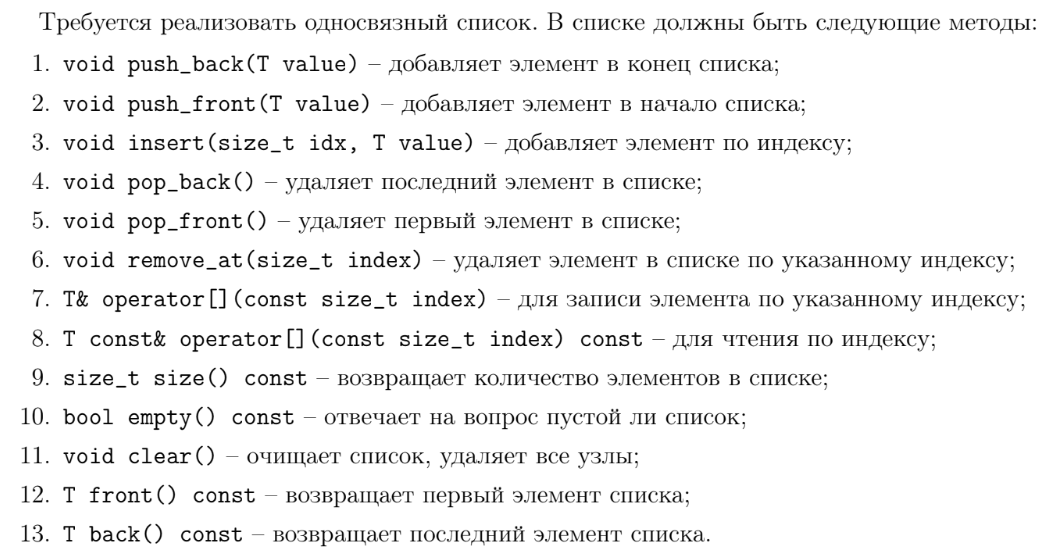
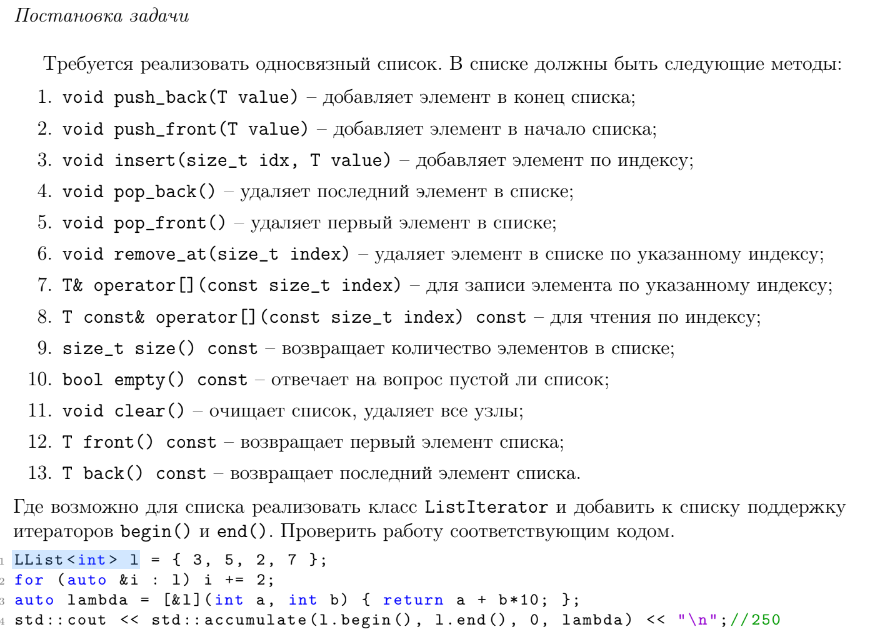
modified

diff --git a/addition_tasks/linked_list/LList.cpp b/addition_tasks/linked_list/LList.cpp
@@ -1,4 +1,6 @@
 #include <iostream>
+#include <numeric>
+#include <vector>
 #include "LList.h"
 
 using std::cout;
@@ -6,13 +8,20 @@ using std::cout;
 template<typename T>
 LList<T>::LList() {
     _size = 0;
-    auto *new_el_1 = new Node('\0');
+    auto new_el_1 = new Node<T>();
     head = new_el_1;
 
-    auto *new_el_2 = new Node('\0');
+    auto new_el_2 = new Node<T>();
     z = new_el_2;
     z->_next = z;
     head->_next = z;
+}
+
+template<typename T>
+LList<T>::LList(std::initializer_list<T> values) : LList() {
+    for (auto const &val: values) {
+        push_back(val);
+    }
 }
 
 template<typename T>
@@ -29,7 +38,7 @@ template<typename T>
 void LList<T>::push_back(T _val) {
     auto *new_element = new Node(_val);
 
-    Node *current = head;
+    Node<T> *current = head;
     while (current->_next != z) {
         current = current->_next;
     }
@@ -50,7 +59,7 @@ void LList<T>::push_front(T _val) {
 
 template<typename T>
 void LList<T>::insert(size_t index, T _val) {
-    Node *curr;
+    Node<T> *curr;
     int count;
     if (_size < index)
         throw std::out_of_range("oooooy, this is outside");
@@ -63,7 +72,7 @@ void LList<T>::insert(size_t index, T _val) {
         return;
     }
 
-    Node *previous_element = head;
+    Node<T> *previous_element = head;
     curr = head->_next;
     count = 0;
     while (count != index) {
@@ -72,7 +81,7 @@ void LList<T>::insert(size_t index, T _val) {
         curr = curr->_next;
     }
 
-    Node *new_element = new Node(_val);
+    Node<T> *new_element = new Node(_val);
     new_element->_next = curr;
     previous_element->_next = new_element;
 
@@ -92,7 +101,7 @@ void LList<T>::remove_at(size_t index) {
             return;
         }
 
-        Node *curr = head->_next, *previous = head;
+        Node<T> *curr = head->_next, *previous = head;
         int curr_i = 0;
         while (index != curr_i) {
             previous = curr;
@@ -110,7 +119,7 @@ void LList<T>::pop_back() {
     if (_size == 0)
         return;
 
-    Node *current = head->_next, *previous;
+    Node<T> *current = head->_next, *previous;
     while (current->_next != z) {
         previous = current;
         current = current->_next;
@@ -125,7 +134,7 @@ void LList<T>::pop_front() {
     if (_size == 0)
         return;
 
-    Node *temp = head->_next;
+    Node<T> *temp = head->_next;
     head->_next = temp->_next;
     delete temp;
     _size--;
@@ -147,8 +156,8 @@ void LList<T>::clear() {
 template<typename T>
 LList<T>::~LList() {
     clear();
-    delete head->_next;
     delete head;
+    delete z;
 }
 
 template<typename T>
@@ -161,7 +170,7 @@ T LList<T>::front() {
 template<typename T>
 T LList<T>::back() {
     if (_size != 0) {
-        Node *current = head->_next;
+        Node<T> *current = head->_next;
         while (current->_next != z) {
             current = current->_next;
         }
@@ -174,21 +183,33 @@ template<typename T>
 T &LList<T>::operator[](const size_t index) {
     if (_size <= index || index < 0)
         throw std::out_of_range("oooooy, this is outside");
-    Node *curr;
+    Node<T> *curr;
     size_t curr_i = 0;
     curr = head->_next;
+
     while (curr != z) {
         if (curr_i == index)
             return curr->_val;
         curr = curr->_next;
         curr_i++;
     }
+    return head->_val;
+}
+
+template<typename T>
+ListIterator<T> LList<T>::begin() {
+    return ListIterator<T>(head->_next);
+}
+
+template<typename T>
+ListIterator<T> LList<T>::end() {
+    return ListIterator<T>(z);
 }
 
 template<typename T>
 void LList<T>::print() {
     if (!empty()) {
-        Node *current = head->_next;
+        Node<T> *current = head->_next;
         while (current->_next != z) {
             cout << current->_val << " -> ";
             current = current->_next;
@@ -229,6 +250,11 @@ int main() {
     lst.push_back('q');
     lst.push_back('w');
     std::cout << lst.size() << ' ' << std::boolalpha << lst.empty() << std::endl;
+
+    LList<int> l = {3, 5, 2, 7};
+    for (auto &i: l) i += 2;
+    auto lambda = [& l](int a, int b) { return a + b * 10; };
+    std::cout << std::accumulate(l.begin(), l.end(), 0, lambda) << "\n";// 250
 
     return 0;
 }

diff --git a/addition_tasks/linked_list/LList.h b/addition_tasks/linked_list/LList.h
@@ -1,9 +1,22 @@
 //difference between class and typename - first for all, second for internal types(int, char...)
+template<typename T>
+class ListIterator;
+
+template<typename T>
+struct Node {
+    T _val;
+    Node *_next;
+    Node() : _val(T()), _next(nullptr) {}
+    Node(T val) : _val(val), _next(nullptr) {}
+
+};
 
 template<typename T>
 class LList {
 public:
     LList();
+
+    LList(std::initializer_list<T> values);
 
     ~LList();
 
@@ -21,6 +34,10 @@ public:
 
     T &operator[](size_t index);
 
+    ListIterator<T> begin();
+
+    ListIterator<T> end();
+
     size_t size();
 
     bool empty();
@@ -35,18 +52,31 @@ public:
 
 
 private:
-    struct Node {
-        T _val;
-        Node *_next;
-
-        Node(T val = T()) : _val(val), _next(nullptr) {};
-
-    };
-    Node *head;
-    Node *z;
+    Node<T> *head;
+    Node<T> *z;
 
     int _size;
-
 };
 
 
+template<typename T>
+class ListIterator {
+public:
+    ListIterator(Node<T> *node = nullptr) : _ptr(node) {};
+
+    ListIterator operator++() {
+        _ptr = _ptr->_next;
+        return *this;
+    }
+
+    T &operator*() {
+        return _ptr->_val;
+    }
+
+    bool operator!=(ListIterator const &rhs) const {
+        return _ptr != rhs._ptr;
+    }
+
+private:
+    Node<T> *_ptr;
+};
